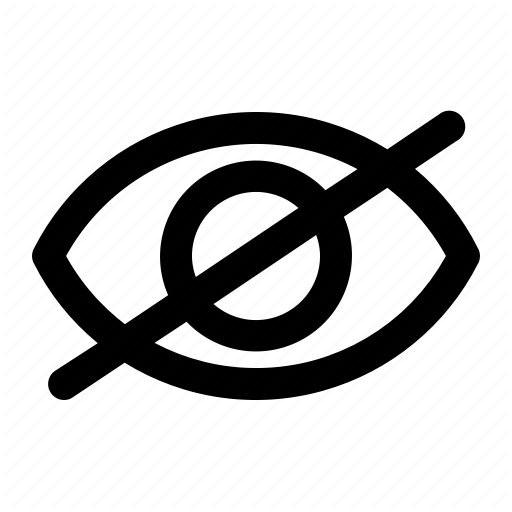
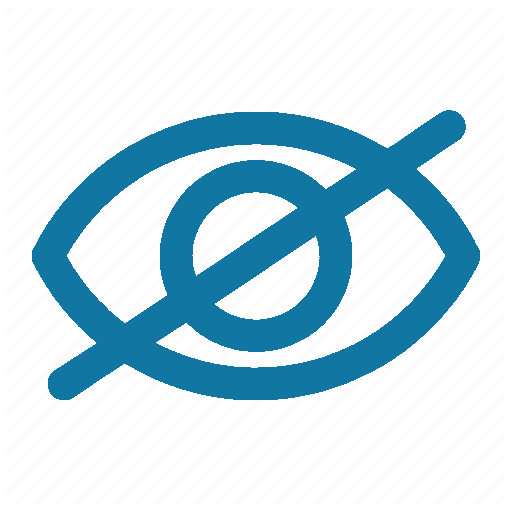
v2 of the app

Changed region(s): [[0.0625, 0.2188, 0.9375, 0.7812]]

diff --git a/components/FindMovie.jsx b/components/FindMovie.jsx
@@ -1,13 +1,20 @@
 import React from 'react'
-import { StyleSheet, Text, View, Button, FlatList, TextInput, TouchableOpacity, ScrollView } from 'react-native'
+import { StyleSheet, Text, View, Button, FlatList, TextInput, TouchableOpacity, ScrollView, SafeAreaView } from 'react-native'
 import { connect } from 'react-redux'
+import Icon from 'react-native-vector-icons/FontAwesome';
 // Pickers
 import Select2 from 'react-native-select-two'
 import CustomMultiPicker from "react-native-multiple-select-list"
 import { Slider, CheckBox } from 'react-native-elements'
-import SearchableDropdown from 'react-native-searchable-dropdown';
+import SearchableDropdown from 'react-native-searchable-dropdown'
 // API calls
 import { getCategoriesFromApi, getPeople } from '../API/TMDBApi'
+
+// REMOVE A WARNING
+import { YellowBox } from 'react-native'
+YellowBox.ignoreWarnings([
+  'VirtualizedLists should never be nested'
+])
 
 class FindMovie extends React.Component {
 
@@ -96,14 +103,29 @@ class FindMovie extends React.Component {
   render() {
     const { navigation } = this.props
     return (
-      <View style={styles.main_container}>
+      <ScrollView style={styles.main_container}>
 
-        <Text style={styles.présentation}><Text style={{fontWeight: 'bold'}}>Tu ne sais pas quoi regarder ?</Text> T'es au bon endroit : entre tes filtres et parcours les films sélectionnés en fonction de ces derniers</Text>
+        <Text style={[styles.presentation, {marginTop: 20}]}>
+          <Text style={{fontWeight: 'bold'}}>Tu ne sais pas quoi regarder ?</Text> T'es au bon endroit : entres tes filtres et parcours les films sélectionnés ! Une fois la recherche effectuée :
+        </Text>
+
+        <View style={styles.instructions_container}>
+          <View style={styles.instruction}>
+            <Icon style={styles.icon_instruction} name='arrow-circle-up' size={25} color='#1177a2' /><Text style={styles.presentation}>Glisser vers le haut pour ajouter le film à vos films "Déjà vu"</Text>
+          </View>
+          <View style={styles.instruction}>
+            <Icon style={styles.icon_instruction} name='arrow-circle-right' size={25} color='#1177a2' /><Text style={styles.presentation}>Glisser vers la droite pour ajouter le film à vos films "Favoris"</Text>
+          </View>
+          <View style={styles.instruction}>
+            <Icon style={styles.icon_instruction} name='arrow-circle-left' size={25} color='#1177a2' /><Text style={styles.presentation}>Glisser vers la gauche pour passer le film</Text>
+          </View>
+        </View>
+
 
         <Text style={styles.text_of_inputs}>Trouver des films par genre(s) :</Text>
         <Select2
           style={{ borderRadius: 5 }}
-          colorTheme={'blue'}
+          colorTheme={'#1177a2'}
           popupTitle='Selectionner un ou plusieurs genres'
           title='Selection genre(s)'
           cancelButtonText='Annuler'
@@ -140,8 +162,7 @@ class FindMovie extends React.Component {
           )}
         />
 
-        <View>
-         <FlatList
+        <FlatList
           style={styles.peoples_selected}
           data={this.state.peoples_selected}
           numColumns={2}
@@ -154,7 +175,6 @@ class FindMovie extends React.Component {
             </TouchableOpacity>
           )}
         />
-        </View>
 
         <View style={styles.or}>
           <Text style={styles.or_txt}>OU</Text>
@@ -165,13 +185,13 @@ class FindMovie extends React.Component {
           <Select2
             isSelectSingle
             style={{ borderRadius: 5 }}
-            colorTheme={'blue'}
+            colorTheme={'#1177a2'}
             popupTitle='Sélectionner un film'
             title='Sélectionner un film'
             cancelButtonText='Annuler'
             selectButtonText='Valider'
             searchPlaceHolderText='Rechercher film'
-            listEmptyTitle='Il faut avoir vu le film'
+            listEmptyTitle='Il faut avoir vu le film pour trouver un film similaire ...'
             data={this.props.seenMovies}
             onSelect={data => this.setState({ similar_movie_id: data })}
             onRemoveItem={data => { this.setState({ similar_movie_id: data })}}
@@ -181,7 +201,7 @@ class FindMovie extends React.Component {
         <TouchableOpacity style={[styles.or, {marginTop: 20}]} onPress={() => this.navigateToSlider()}>
           <Text style={[styles.or_txt, {fontSize: 20}]}>Trouver films</Text>
         </TouchableOpacity>
-      </View>
+      </ScrollView>
     )
   }
 }
@@ -191,13 +211,23 @@ const styles = StyleSheet.create({
     flex: 1,
     paddingHorizontal: 20
   },
-  présentation: {
-    color: '#6dc1c4',
-    marginVertical: 20,
+  presentation: {
+    color: '#1177a2',
     fontSize: 15
   },
+  instructions_container: {
+    marginTop: 5,
+    marginBottom: 20
+  },
+  instruction: {
+    flexDirection: 'row',
+    alignItems: 'center'
+  },
+  icon_instruction: {
+    marginRight: 5
+  },
   text_of_inputs: {
-    color: '#18979b',
+    color: '#1177a2',
     marginBottom: 10,
   },
   textinput: {
@@ -228,10 +258,10 @@ const styles = StyleSheet.create({
   },
   or_txt: {
     color: 'white',
-    backgroundColor: '#5ed4ff',
+    backgroundColor: '#1177a2',
     paddingVertical: 10,
     paddingHorizontal: 15,
-    borderColor: '#5ed4ff',
+    borderColor: '#1177a2',
     borderRadius: 30,
     fontWeight: 'bold'
   }

diff --git a/components/FilmItem2.jsx b/components/FilmItem2.jsx
@@ -3,7 +3,7 @@ import { StyleSheet, View, Button, TextInput, FlatList, Text, Image, TouchableOp
 import { getImageFromApi } from '../API/TMDBApi'
 import FadeIn from '../animations/FadeIn'
 
-class FilmItem extends React.Component {
+class FilmItem2 extends React.Component {
 
   _displayFav() {
     if(this.props.isFilmFavorite) {
@@ -40,21 +40,9 @@ class FilmItem extends React.Component {
             source={{uri: getImageFromApi(film.poster_path)}}
           />
           <View style={styles.content_container}>
-
             <View style={styles.header_container}>
-            <View style={{flexDirection: 'column'}}>
-              {this._displayFav()}
-              {this._displaySeen()}
-            </View>
               <Text style={styles.title_text}>{film.title}</Text>
               <Text style={styles.vote_text}>{film.vote_average}</Text>
-            </View>
-
-            <View style={styles.description_container}>
-              <Text style={styles.description_text} numberOfLines={6}>{film.overview}</Text>
-            </View>
-            <View style={styles.date_container}>
-              <Text style={styles.date_text}>Sorti le {film.release_date}</Text>
             </View>
           </View>
         </TouchableOpacity>
@@ -65,14 +53,17 @@ class FilmItem extends React.Component {
 
 const styles = StyleSheet.create({
   main_container: {
-    height: 190,
-    flexDirection: 'row'
+    flexDirection: 'row',
+    paddingVertical: 10,
+    marginHorizontal: 10,
+    borderBottomWidth: 2,
+    borderBottomColor: '#b8d8e0'
   },
   image: {
-    width: 120,
-    height: 180,
-    margin: 5,
-    backgroundColor: 'gray'
+    width: 80,
+    height: 80,
+    borderRadius: 50,
+    marginRight: 5
   },
   content_container: {
     flex: 1,
@@ -80,11 +71,12 @@ const styles = StyleSheet.create({
   },
   header_container: {
     flex: 3,
+    alignItems: 'center',
     flexDirection: 'row'
   },
   title_text: {
     fontWeight: 'bold',
-    fontSize: 20,
+    fontSize: 18,
     flex: 1,
     flexWrap: 'wrap',
     paddingRight: 5
@@ -114,4 +106,4 @@ const styles = StyleSheet.create({
     marginRight: 5
   }
 })
-export default FilmItem
+export default FilmItem2

diff --git a/components/Favorites.jsx b/components/Favorites.jsx
@@ -1,25 +1,28 @@
 import React from 'react'
-import { StyleSheet, Text, View } from 'react-native'
-import FilmList from './FilmList'
+import { StyleSheet, Text, View, FlatList } from 'react-native'
+import FilmItem2 from './FilmItem2'
 import { connect } from 'react-redux'
-// import Avatar from './Avatar'
 
 class Favorites extends React.Component {
 
+  _displayDetailForFilm = (idFilm) => {
+    this.props.navigation.navigate('FilmDetail', {idFilm: idFilm})
+  }
+
   render() {
     return (
-      <View style={styles.main_container}>
-      {/*
-        <View style={styles.avatar_container}>
-          <Avatar/>
-        </View>
-      */}
-        <FilmList
-          films={this.props.favoriteFilm}
-          navigation={this.props.navigation}
-          favoriteList={true}
-        />
-      </View>
+      <FlatList
+        data={this.props.favoriteFilm}
+        extraData={[this.props.favoriteFilm, this.props.seenMovies]}
+        keyExtractor={(item) => item.id.toString()}
+        renderItem={({item}) => (
+          <FilmItem2
+              film={item}
+              isFilmFavorite={(this.props.favoriteFilm.findIndex(film => film.id === item.id) !== -1) ? true : false}
+              displayDetailForFilm={this._displayDetailForFilm}
+            />
+        )}
+      />
     )
   }
 }
@@ -35,7 +38,8 @@ const styles = StyleSheet.create({
 
 const mapStateToProps = state => {
   return {
-    favoriteFilm: state.toggleFavorite.favoriteFilm
+    favoriteFilm: state.toggleFavorite.favoriteFilm,
+    seenMovies: state.toggleSeen.seenMovies
   }
 }
 

diff --git a/components/Seen.jsx b/components/Seen.jsx
@@ -1,19 +1,28 @@
 import React from 'react'
-import { StyleSheet, Text, View } from 'react-native'
-import FilmList from './FilmList'
+import { StyleSheet, Text, View, FlatList } from 'react-native'
+import FilmItem2 from './FilmItem2'
 import { connect } from 'react-redux'
 
 class Seen extends React.Component {
 
+  _displayDetailForFilm = (idFilm) => {
+    this.props.navigation.navigate('FilmDetail', {idFilm: idFilm})
+  }
+
   render() {
     return (
-      <View style={styles.main_container}>
-        <FilmList
-          films={this.props.seenMovies}
-          navigation={this.props.navigation}
-          favoriteList={true}
-        />
-      </View>
+      <FlatList
+        data={this.props.seenMovies}
+        extraData={[this.props.favoriteFilm, this.props.seenMovies]}
+        keyExtractor={(item) => item.id.toString()}
+        renderItem={({item}) => (
+          <FilmItem2
+              film={item}
+              isMovieSeen={(this.props.seenMovies.findIndex(film => film.id === item.id) !== -1) ? true : false}
+              displayDetailForFilm={this._displayDetailForFilm}
+            />
+        )}
+      />
     )
   }
 }
@@ -34,3 +43,8 @@ const mapStateToProps = state => {
 }
 
 export default connect(mapStateToProps)(Seen)
+
+
+
+
+

diff --git a/components/FindMovieList.jsx b/components/FindMovieList.jsx
@@ -149,7 +149,7 @@ class FindMovieList extends React.Component {
           cardIndex={0}
           cardVerticalMargin={40}
           renderCard={this.renderCard}
-          backgroundColor={'#5ed4ff'}
+          backgroundColor={'#1177a2'}
           stackSize={2}
           stackSeparation={0}
           overlayLabels={{
@@ -259,7 +259,8 @@ const styles = StyleSheet.create({
   },
   poster: {
     width: 200,
-    height: 290
+    height: 290,
+    borderRadius: 5
   },
   title: {
     textAlign: 'center',
@@ -274,7 +275,7 @@ const styles = StyleSheet.create({
     height: 40,
     width: 40,
     marginBottom: 10,
-    opacity: 0.5
+    opacity: 0.7
   },
   overview: {
     fontSize: 12

diff --git a/store/configureStore.js b/store/configureStore.js
@@ -1,7 +1,6 @@
 import { createStore } from 'redux';
 import toggleFavorite from './reducers/favoritesReducer'
 import toggleSeen from './reducers/seenReducer'
-import setAvatar from './reducers/avatarReducer'
 import { persistCombineReducers } from 'redux-persist'
 import AsyncStorage from '@react-native-community/async-storage'
 
@@ -10,4 +9,4 @@ const rootPersistConfig = {
   storage: AsyncStorage
 }
 
-export default createStore(persistCombineReducers(rootPersistConfig, {toggleFavorite, toggleSeen, setAvatar}))
+export default createStore(persistCombineReducers(rootPersistConfig, {toggleFavorite, toggleSeen}))

diff --git a/Navigation/Navigation.js b/Navigation/Navigation.js
@@ -96,7 +96,7 @@ const MoviesTabNavigator = createBottomTabNavigator(
       navigationOptions: {
         tabBarIcon: () => {
           return <Image
-            source={require('../assets/seen.png')}
+            source={require('../assets/swipper.png')}
             style={styles.icon}/>
         }
       }
